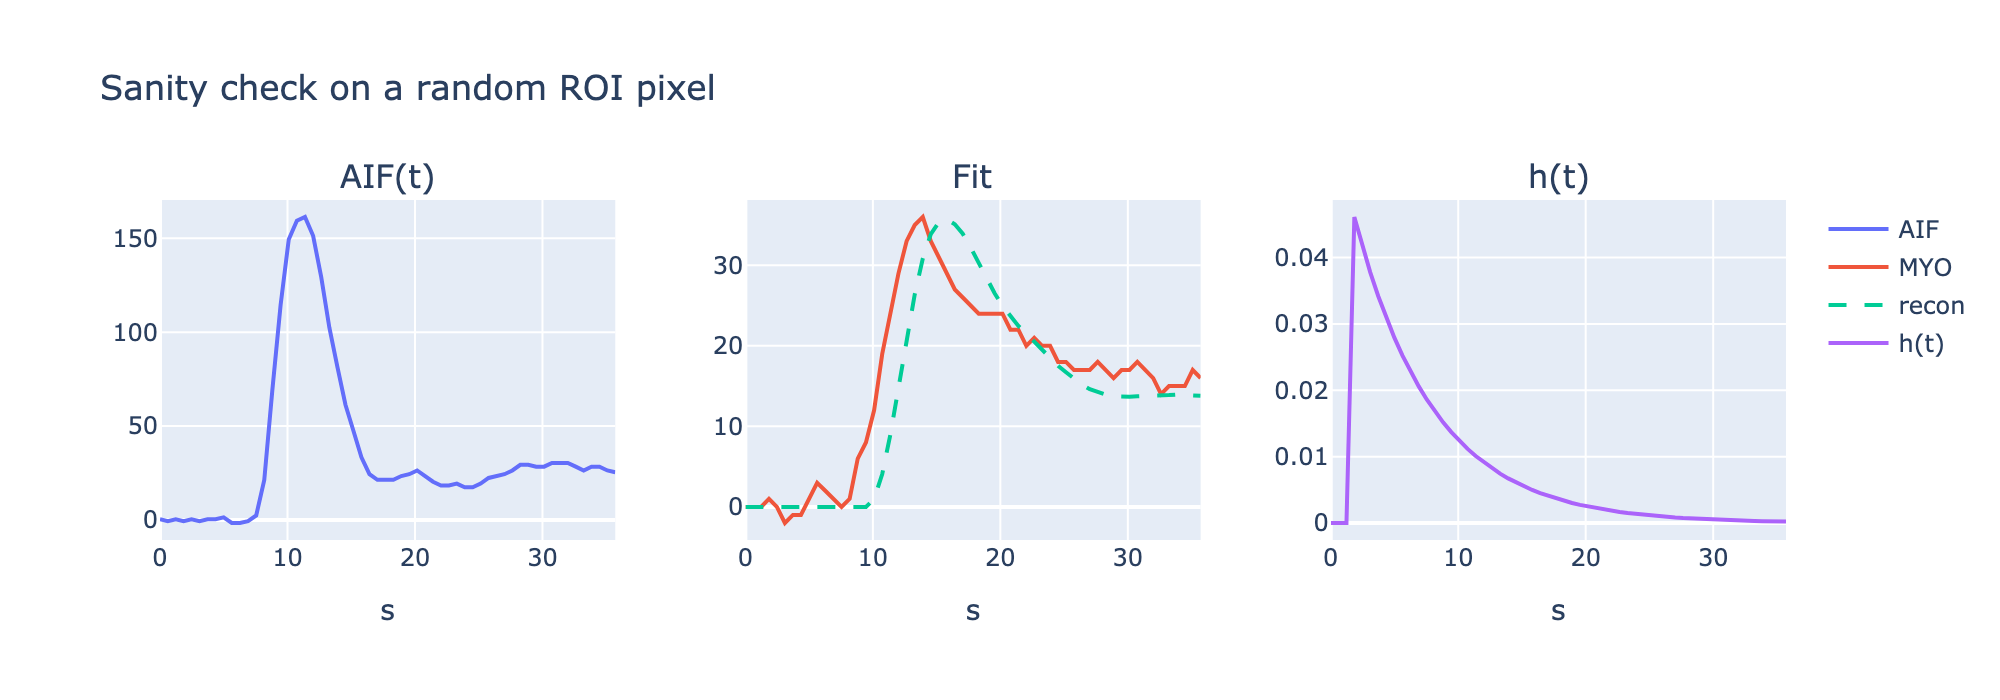
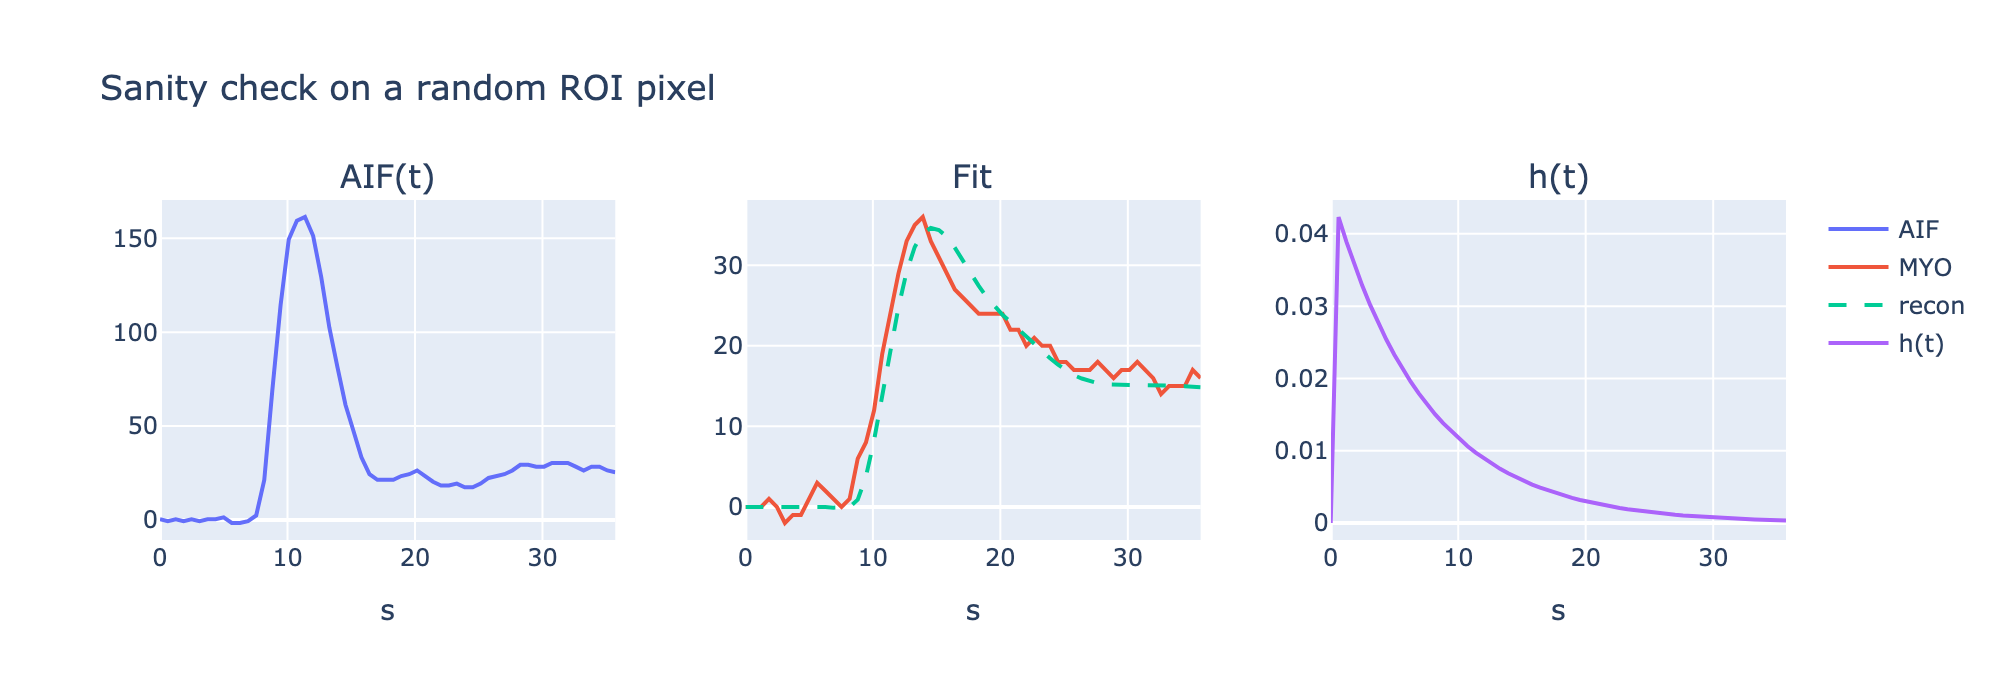
fix(partial): zeros at start of h(t)

diff --git a/include/MbfFermiFitter.hpp b/include/MbfFermiFitter.hpp
@@ -4,7 +4,6 @@
 #include <algorithm>
 #include <cmath>
 
-
 class MbfFermiFitter {
 public:
     // A is convolution matrix (T x T)
@@ -120,10 +119,6 @@ private:
         h_out.resize(T);
         for (int i = 0; i < T; ++i) {
             double ti = t(i);
-            if (ti < t0) {
-                h_out(i) = 0.0;
-                continue;
-            }
 
             double x = (ti - t0);
             double logistic = 1.0 / (1.0 + std::exp(-x / (k + 1e-8)));

diff --git a/README.md b/README.md
@@ -38,7 +38,7 @@ Ensure that MotionCorrectedPerfusionSeries/ and AIF_And_Myo_Masks.tiff are place
 python vis_check.py
 ```
 
-h(t) - was defined by deconvolution (SVD) or Fermi model; impulse response function
+h(t) - was defined by optimising Fermi model; tissue impulse response; (TBD: is 0 ok at the beggining?)
 
 MYO - concentration of contrast agent at a specific pixel/voxel
 
@@ -53,7 +53,7 @@ MBF for this particular pixel was calculated based on h(0) value by the followin
 # tissue density:
 const double rho = 1.05
 
-# h0 is ~0.045 ml/(ml * sec) for this pixel
+# h0 is ~0.042 ml/(ml * sec) for this pixel
 
 double mbf = h0 * 60.0 / rho;
 ```
@@ -64,7 +64,7 @@ The defined MBF map is written to mbf_map.nii . It can be displayed in Slicer3D,
 
 ![image](./docs/mbf_map.png)
 
-### Incorrect h(t) when using deconvolution
+### Failed attempt to find h(t) by using deconvolution (SVD)
 
 Since h(t) contains oscilation (not decaying continiously) it doesn't represent targeted physiological process. Different parameters potentially could improve that.
 
